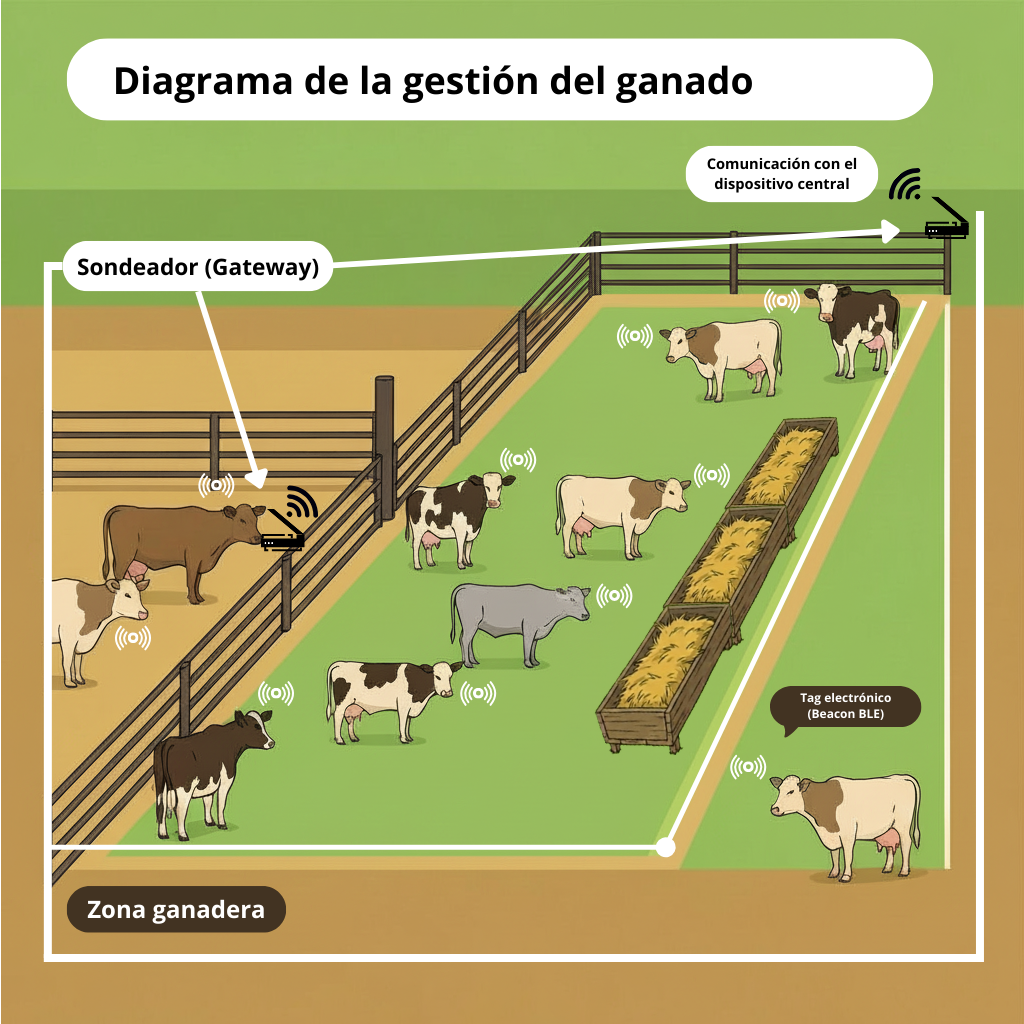
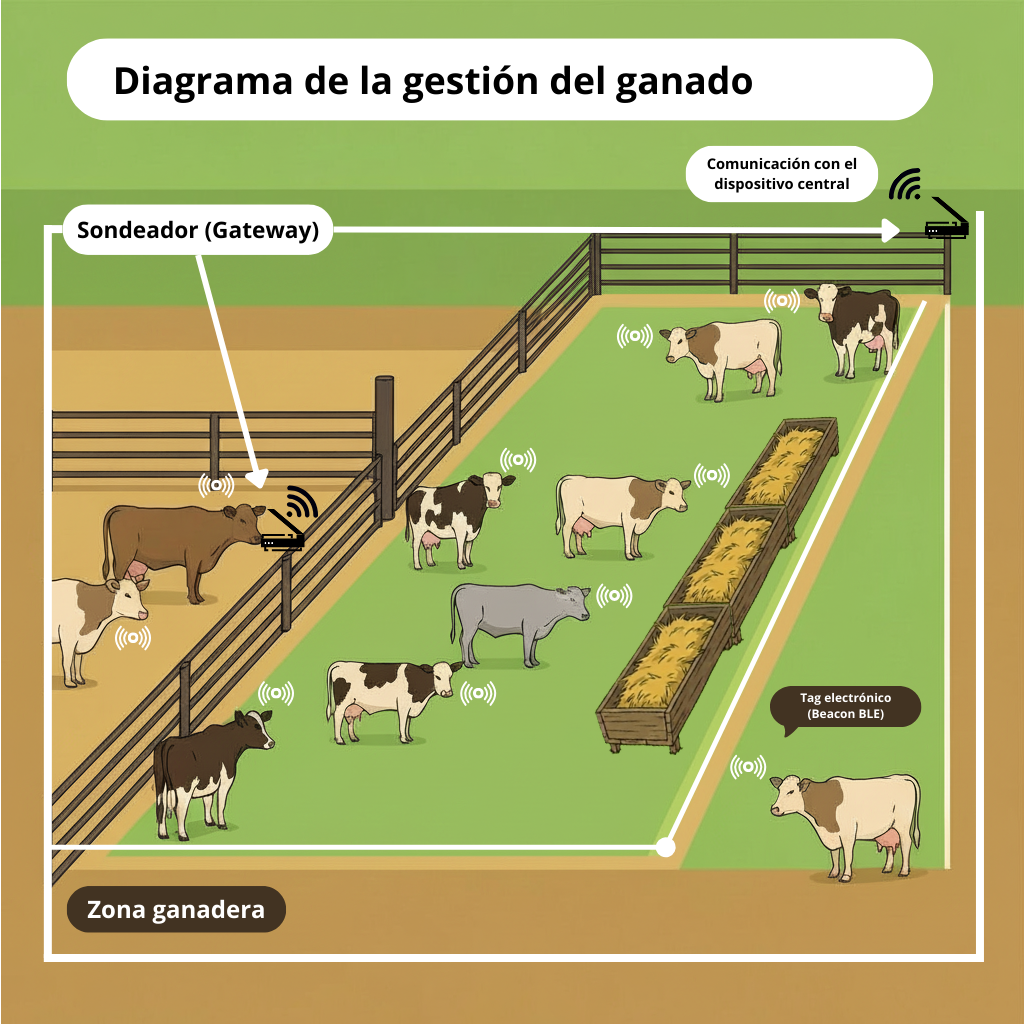
Se cambió ciertos textos e imagenes (Parte 1/2).

Changed region(s): [[0.0312, 0.1875, 0.875, 0.4375]]

diff --git a/src/views/Landing/Home.vue b/src/views/Landing/Home.vue
@@ -12,11 +12,12 @@ import { MapPin, Bell, Radio, BarChart3, Shield, Zap } from 'lucide-vue-next'
         <div class="mx-auto max-w-7xl px-4 sm:px-6 lg:px-8 py-16 sm:py-24 md:py-32">
           <div class="mx-auto max-w-3xl text-center">
             <h1 class="text-4xl sm:text-6xl font-bold tracking-tight text-foreground leading-tight">
-              Monitoreo Inteligente de Ganado con Tecnología BLE
+              Monitoreo Inteligente de Ganado con Inteligencia Artificial
             </h1>
             <p class="mt-6 text-xl leading-relaxed text-muted-foreground">
-              Mantén tu ganadería bajo control con nuestro sistema de monitoreo en tiempo real mediante beacons BLE.
-              Localiza tus animales, recibe alertas y optimiza la gestión de tu rancho.
+              Mantén tu ganadería bajo control con nuestro sistema de monitoreo en tiempo real mediante beacons BLE e Inteligencia Artificial.
+              Localiza a tus animales y recibe alertas sobre su comportamiento, alimentación y posibles enfermedades. 
+              Optimiza la gestión de tu rancho con información precisa en tiempo real.
             </p>
 
             <div class="mt-10 flex flex-col sm:flex-row items-center justify-center gap-4">
@@ -28,7 +29,7 @@ import { MapPin, Bell, Radio, BarChart3, Shield, Zap } from 'lucide-vue-next'
         </div>
       </section>
 
-      <section>
+      <!-- <section>
         <div class="relative w-full">
           <div class="absolute inset-0 bg-linear-to-t from-background via-transparent to-transparent z-10" />
           <img
@@ -37,7 +38,7 @@ import { MapPin, Bell, Radio, BarChart3, Shield, Zap } from 'lucide-vue-next'
             class="w-full h-auto object-cover"
           />
         </div>
-      </section>
+      </section> -->
 
       <section id="features" class="py-16 sm:py-24 bg-background">
         <div class="mx-auto max-w-7xl px-4 sm:px-6 lg:px-8">
